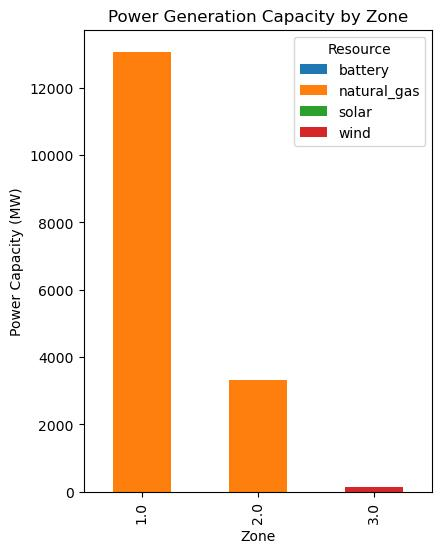
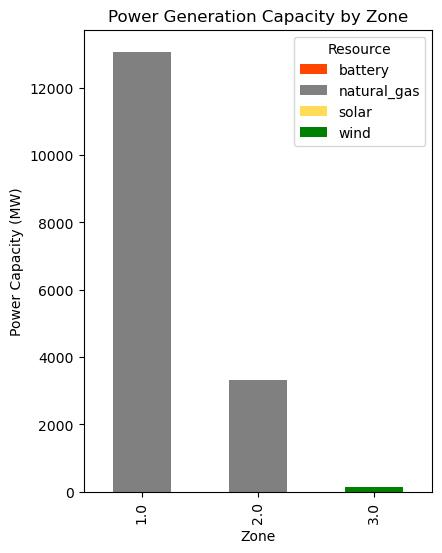
moved dicts

diff --git a/src/viz_tools/src/data_wrangling/data_wrangling_long.py b/src/viz_tools/src/data_wrangling/data_wrangling_long.py
@@ -9,8 +9,30 @@ Created on Wed Aug 16 14:16:47 2023
 import pandas as pd
 import os
 import matplotlib.pyplot as plt
-from generator_id_dict import elec_bins
-from generator_id_dict import h2_bins
+
+
+# Dictionary to map patterns to energy types
+elec_bins = {
+    'natural_gas': ['natural_gas', 'naturalgas', 'ng', 'combined_cycle', 'ocgt', 'ccgt'],
+    'natural_gas_w_CCS': ['natural_gas_ccs'],
+    'hydroelectric': ['hydro', 'hydroelectric', 'ror'],  # added 'hydroelectric' to the list for better matching
+    'coal': ['coal', 'lignite'],
+    'solar': ['solar', 'pv'],
+    'wind': ['wind'],
+    'nuclear': ['nuclear'],
+    'battery': ['battery', 'lithium', 'storage'],
+    'phs' : ['phs', "pumped"],
+    'oil' : ['oil'],
+    'biomass' : ["biomass"],
+    'H2': ['H2']
+}
+
+h2_bins = {
+    'smr': ['smr'],
+    'atr': ['atr'],
+    'electrolyzer': ['electrolyzer', 'electrolyzers'],  # added 'hydroelectric' to the list for better matching
+    'h2_storage': ['storage']}
+
 
 # Get the directory of the script, which should be 'src'
 current_directory = os.getcwd()
@@ -376,10 +398,7 @@ def main_multiple_runs():
     
     return(df)
 
-run = '/Users/lesarmstrong/Documents/GitHub/DOLPHYN-dev/Example_Systems/SmallNewEngland/ThreeZones'
 
-
-df = main(run)
 
 
 

diff --git a/src/viz_tools/src/viz/create_viz.py b/src/viz_tools/src/viz/create_viz.py
@@ -1,9 +1,34 @@
 import pandas as pd
 import matplotlib.pyplot as plt
 import os
-import yaml
-from generators_color_dict.py import elec_colors
-from generators_color_dict.py import h2_colors
+#import yaml
+#from generators_color_dict.py import elec_colors
+#from generators_color_dict.py import h2_colors
+
+
+# Dictionary of colors for the technologies
+elec_colors = {
+    'natural_gas': '#808080',  # grey
+    'natural_gas_w_CCS': '#d3d3d3',  # light grey
+    'hydroelectric': '#0000FF',  # blue
+    'coal': '#000000',  # black
+    'solar': '#ffdb58',  # gold
+    'wind': '#008000',  # green
+    'nuclear': '#9400d3',  # violet
+    'battery': '#ff4500',  # orange
+    'phs': '#4682b4',  # steel blue
+    'oil': '#8b4513',  # saddle brown
+    'biomass': '#228b22',  # forest green
+    'H2': '#89CFF0'  # baby blue
+}
+
+h2_colors = {
+    'smr': '#2f4f4f',  # dark grey
+    'atr': '#800000',  # bordeaux
+    'electrolyzer': '#00ffff',  # aqua blue
+    'h2_storage': '#ffc0cb'  # pink
+}
+
 
 def create_viz_dir(dir):
     figures_path = dir + "/Figures"
